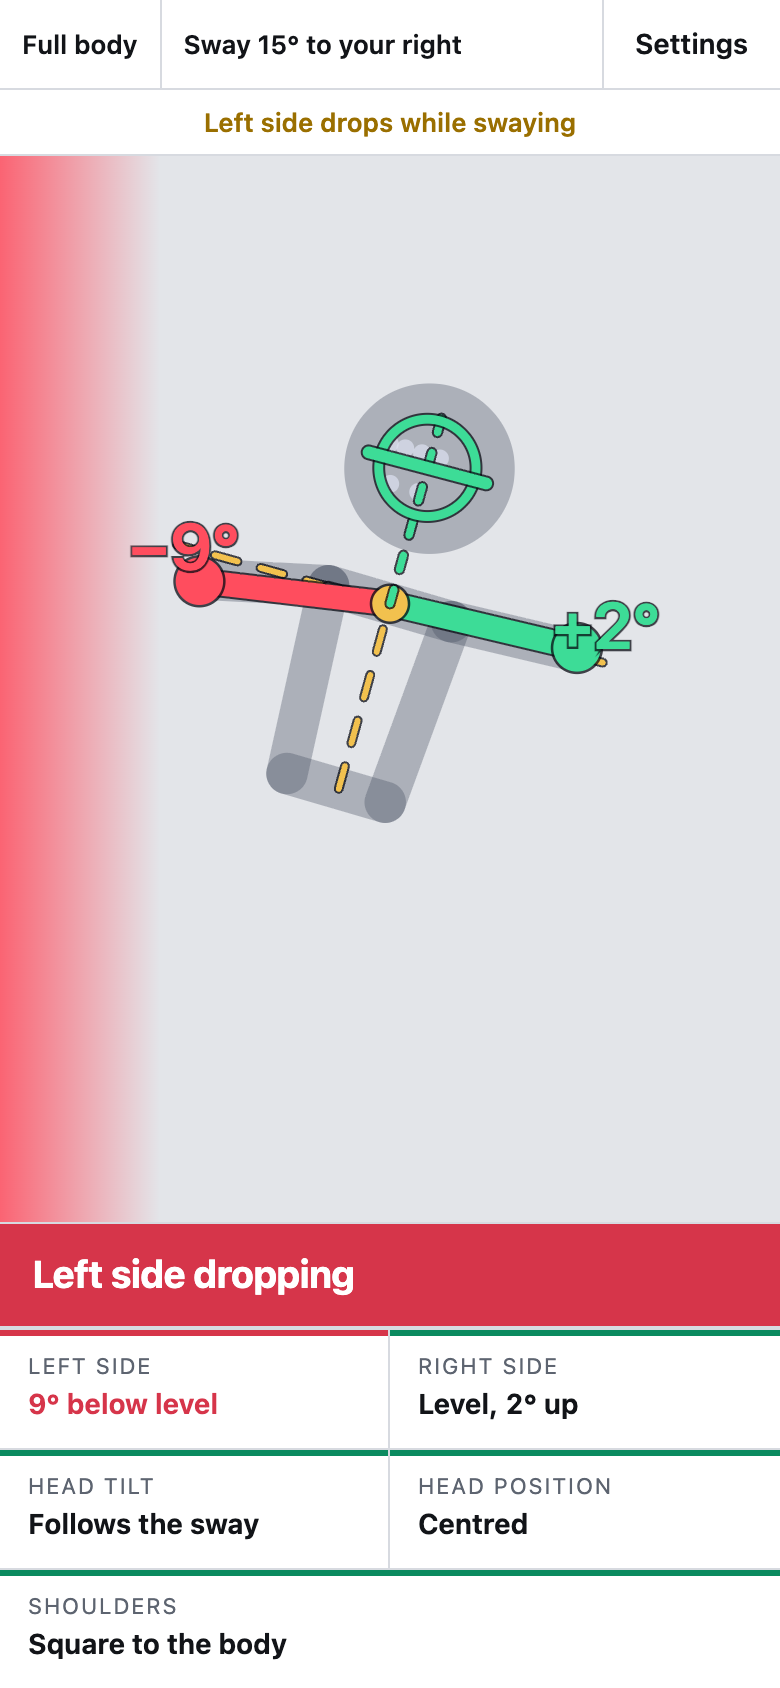
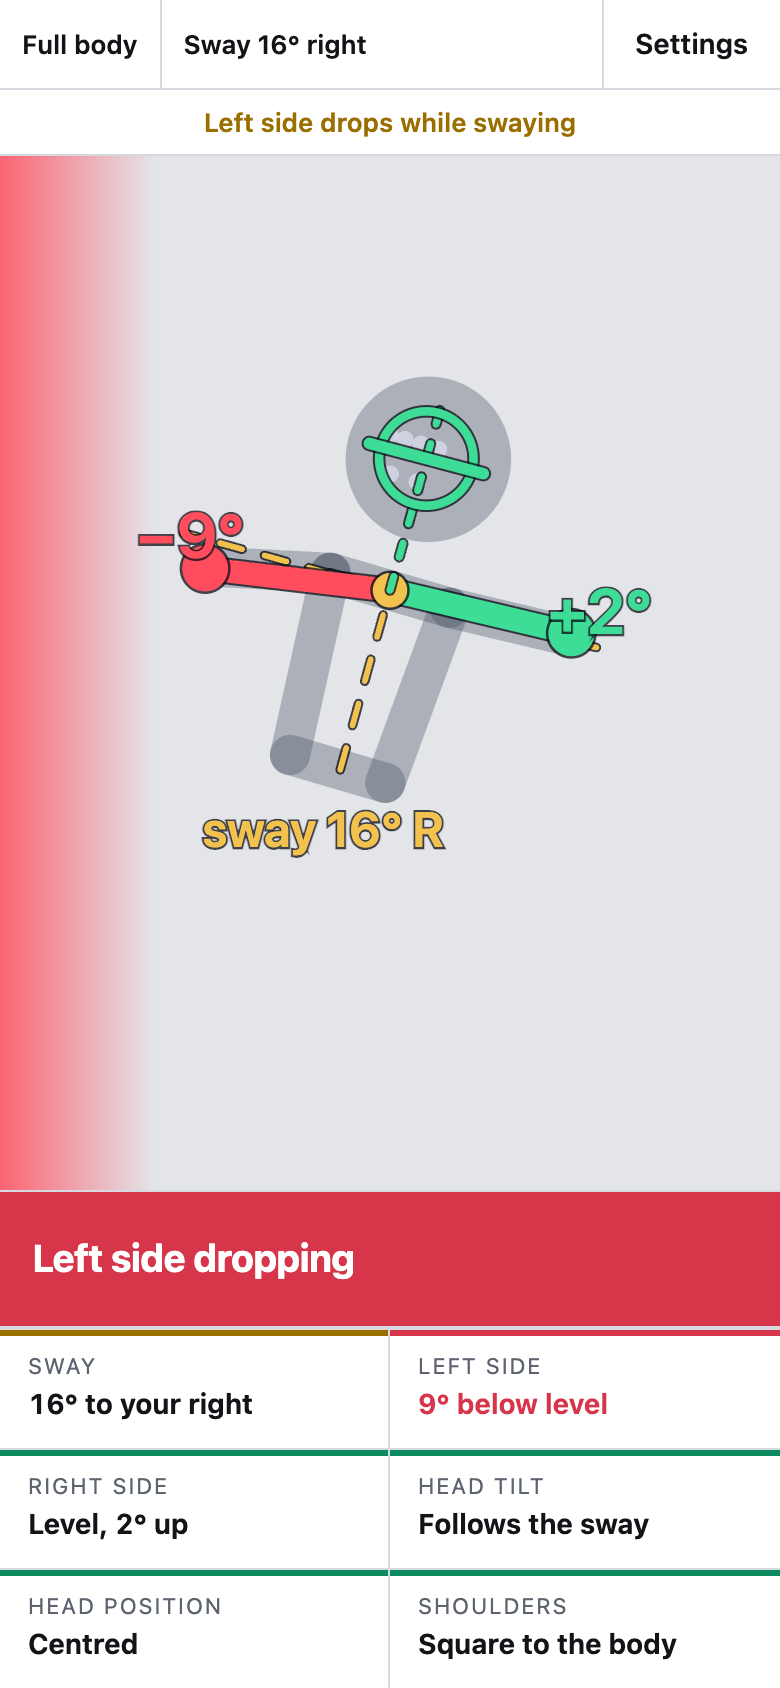
Sway readout everywhere; bottom panel keeps a fixed height
Sway (the body axis's lean from upright) is now always a number: in the top bar
("Sway 15° right", "Sway 0°" when upright), as the first Studio reading, and
as a gold label under the body axis on the overlay, never faded in Glance.

Fix: the bottom panel changed height when the message changed (Glance's
fault messages add a second line) or when tracking was lost (the readings
vanished), which resized the camera picture. The message band now has a fixed
height with room for two lines, reading values no longer wrap, and the
readings stay in place, greyed, while nobody is in view. Checked by sampling
the picture's height every 100 ms through the whole demo in both looks: one
value throughout. Guide picture re-shot.

Changed region(s): [[0.0, 0.6777, 1.0, 0.9858], [0.1538, 0.2156, 0.8615, 0.5237], [0.4, 0.0, 0.5846, 0.0308]]

diff --git a/app.css b/app.css
@@ -60,39 +60,45 @@ button:focus-visible, input:focus-visible, a:focus-visible { outline: 2px solid 
 
 /* ---- bottom panel: message band + readings grid ---- */
 .dock { grid-row: 3; background: var(--panel); border-top: 1px solid var(--line); padding-bottom: env(safe-area-inset-bottom, 0px); }
-.banner { display: grid; gap: 2px; padding: 12px max(16px, env(safe-area-inset-left, 0px)); border-bottom: 1px solid var(--line); box-shadow: inset 6px 0 0 var(--line); transition: background-color 120ms; }
-.banner .main { font-size: clamp(19px, 3.4vw, 30px); font-weight: 700; letter-spacing: -0.01em; text-wrap: balance; }
+.banner {
+  /* Fixed height (room for two lines) so a change of message never resizes the camera picture. */
+  --main: clamp(19px, 3.4vw, 30px);
+  height: calc(24px + 2.3 * var(--main)); overflow: hidden; align-content: center;
+  display: grid; gap: 2px; padding: 12px max(16px, env(safe-area-inset-left, 0px)); border-bottom: 1px solid var(--line); box-shadow: inset 6px 0 0 var(--line); transition: background-color 120ms;
+}
+.banner .main { font-size: var(--main); line-height: 1.15; font-weight: 700; letter-spacing: -0.01em; text-wrap: balance; display: -webkit-box; -webkit-box-orient: vertical; -webkit-line-clamp: 2; overflow: hidden; }
 .banner .sub { font-size: 14px; color: var(--dim); }
 .banner .sub:empty { display: none; }
 .banner.ok { background: var(--ok-soft); box-shadow: inset 6px 0 0 var(--ok); }
 .banner.ok .main { color: var(--ok); }
 .banner.fault { background: var(--fault); box-shadow: none; color: #fff; }
 .banner.fault .sub { color: rgba(255, 255, 255, 0.88); }
-.banner.idle .main { color: var(--dim); font-size: clamp(16px, 2.6vw, 22px); font-weight: 600; }
+.banner.idle .main { color: var(--dim); font-size: calc(var(--main) * 0.8); font-weight: 600; }
 
-.tiles { display: grid; grid-template-columns: repeat(5, minmax(0, 1fr)); }
+.tiles { display: grid; grid-template-columns: repeat(6, minmax(0, 1fr)); }
 .tiles:empty { display: none; }
 .tile { display: grid; gap: 2px; align-content: start; padding: 10px 14px 12px; min-width: 0; border-right: 1px solid var(--line); box-shadow: inset 0 3px 0 var(--line); }
 .tile:last-child { border-right: 0; }
 .tile .k { font-size: 11px; text-transform: uppercase; letter-spacing: 0.08em; color: var(--dim); }
-.tile .v { font-size: clamp(14px, 1.7vw, 17px); font-weight: 650; font-variant-numeric: tabular-nums; overflow-wrap: anywhere; }
+.tile .v { font-size: clamp(14px, 1.7vw, 17px); font-weight: 650; font-variant-numeric: tabular-nums; white-space: nowrap; overflow: hidden; text-overflow: ellipsis; }
 .tile .s { display: none; }
 .tile.ok { box-shadow: inset 0 3px 0 var(--ok); }
 .tile.fault { box-shadow: inset 0 3px 0 var(--fault); }
+.tile.info { box-shadow: inset 0 3px 0 var(--guide); }
 .tile.fault .v { color: var(--fault); }
 .tile.idle .v { color: var(--dim); font-weight: 500; }
 @media (max-width: 720px) {
   .tiles { grid-template-columns: repeat(2, minmax(0, 1fr)); }
   .tile { border-top: 1px solid var(--line); }
   .tile:nth-child(2n) { border-right: 0; }
-  .tile[data-id="shoulders"] { grid-column: span 2; border-right: 0; }
 }
 @media (max-width: 560px) { #fps { display: none; } .cell { padding: 0 11px; font-size: 13px; } [data-look="glance"] .tile .s { font-size: 12px; } }
 
 /* ---- Glance look: one large instruction, a compact status row ---- */
-[data-look="glance"] .banner { padding-block: 16px 18px; }
-[data-look="glance"] .banner .main { font-size: clamp(28px, 7.5vw, 56px); font-weight: 800; letter-spacing: -0.02em; line-height: 1.05; }
-[data-look="glance"] .banner .sub { font-size: clamp(14px, 2.4vw, 19px); }
+[data-look="glance"] .banner { --main: clamp(28px, 7.5vw, 56px); --subf: clamp(14px, 2.4vw, 19px); padding-block: 16px 18px; height: calc(36px + 2.1 * var(--main) + 1.4 * var(--subf)); }
+[data-look="glance"] .banner .main { font-weight: 800; letter-spacing: -0.02em; line-height: 1.05; }
+[data-look="glance"] .banner .sub { font-size: var(--subf); line-height: 1.4; }
+[data-look="glance"] .tile[data-id="sway"] { display: none; }
 [data-look="glance"] .tiles { grid-template-columns: repeat(5, minmax(0, 1fr)); }
 [data-look="glance"] .tile, [data-look="glance"] .tile.ok, [data-look="glance"] .tile.fault { border-top: 0; grid-column: auto; border-right: 1px solid var(--line); padding: 12px 6px 12px; justify-items: center; box-shadow: none; }
 [data-look="glance"] .tile:last-child { border-right: 0; }

diff --git a/src/feedback.js b/src/feedback.js
@@ -4,7 +4,7 @@ const deg = (d) => `${Math.abs(d).toFixed(0)}°`;
 const side = (dir) => (dir === 'left' ? 'left' : 'right');
 
 const OFF = (id, label) => ({ id, label, value: 'Turned off', tone: 'idle' });
-const SHORT = { left: 'Left', right: 'Right', headTilt: 'Tilt', headPos: 'Head', shoulders: 'Shoulders' };
+const SHORT = { sway: 'Sway', left: 'Left', right: 'Right', headTilt: 'Tilt', headPos: 'Head', shoulders: 'Shoulders' };
 
 function sideTile(id, name, s) {
   if (s.state === 'off') return OFF(id, name);
@@ -17,13 +17,17 @@ export function feedback(v) {
   if (!v?.tracked) {
     return {
       banner: { text: 'Step into view so both shoulders and elbows are visible', tone: 'idle', instruction: 'Step into view', detail: 'Both shoulders and elbows need to be in the picture' },
-      tiles: [],
+      // Same cells as when tracking, so the panel keeps its height and the picture does not jump.
+      tiles: [['sway', 'Sway'], ['left', 'Left side'], ['right', 'Right side'], ['headTilt', 'Head tilt'], ['headPos', 'Head position'], ['shoulders', 'Shoulders']]
+        .map(([id, label]) => ({ id, label, value: 'Not visible', tone: 'idle', short: SHORT[id] })),
       sway: '',
       mode: '',
     };
   }
   const h = v.head;
+  const swayDeg = Math.round(Math.abs(v.sway));
   const tiles = [
+    { id: 'sway', label: 'Sway', value: swayDeg === 0 ? '0°, upright' : `${swayDeg}° to your ${v.sway > 0 ? 'right' : 'left'}`, tone: 'info' },
     sideTile('left', 'Left side', v.left),
     sideTile('right', 'Right side', v.right),
     h.tilt === 'off' ? OFF('headTilt', 'Head tilt') : h.tilt === 'untracked'
@@ -72,6 +76,6 @@ export function feedback(v) {
   if (text !== clear) tone = 'fault';
   for (const t of tiles) t.short = SHORT[t.id];
 
-  const sway = Math.abs(v.sway) < 2 ? 'Upright' : `Sway ${deg(v.sway)} to your ${v.sway > 0 ? 'right' : 'left'}`;
+  const sway = swayDeg === 0 ? 'Sway 0°' : `Sway ${swayDeg}° ${v.sway > 0 ? 'right' : 'left'}`;
   return { banner: { text, tone, instruction, detail }, tiles, sway, mode: v.mode === 'full' ? 'Full body' : 'Torso only' };
 }

diff --git a/test/feedback.test.js b/test/feedback.test.js
@@ -39,8 +39,13 @@ test('head messages use the dancer\'s own left and right', () => {
 });
 
 test('sway reads in plain words', () => {
-  assert.equal(feedback(v({ sway: 12.4 })).sway, 'Sway 12° to your right');
-  assert.equal(feedback(v({ sway: -0.8 })).sway, 'Upright');
+  assert.equal(feedback(v({ sway: 12.4 })).sway, 'Sway 12° right');
+  assert.equal(feedback(v({ sway: -1.2 })).sway, 'Sway 1° left');
+  assert.equal(feedback(v({ sway: 0.3 })).sway, 'Sway 0°');
+  const tile = (s) => feedback(v({ sway: s })).tiles.find((x) => x.id === 'sway');
+  assert.equal(tile(-17.6).value, '18° to your left');
+  assert.equal(tile(0.2).value, '0°, upright');
+  assert.equal(tile(5).tone, 'info');
 });
 
 test('torso mode explains the shoulder reference instead of judging it', () => {
@@ -53,6 +58,9 @@ test('nobody in view asks the dancer to step in', () => {
   const f = feedback({ tracked: false });
   assert.equal(f.banner.tone, 'idle');
   assert.match(f.banner.text, /shoulders and elbows/);
+  // The readings stay in place (greyed) so the bottom panel does not change height.
+  assert.deepEqual(f.tiles.map((x) => x.id), feedback(v()).tiles.map((x) => x.id));
+  assert.ok(f.tiles.every((x) => x.tone === 'idle'));
 });
 
 test('switched-off checks read "Turned off" and never reach the banner', () => {
@@ -76,5 +84,5 @@ test('each finding comes with an instruction for the Glance look', () => {
     assert.equal(b.instruction, instruction);
     assert.equal(b.detail, detail);
   }
-  assert.deepEqual(feedback(v()).tiles.map((t) => t.short), ['Left', 'Right', 'Tilt', 'Head', 'Shoulders']);
+  assert.deepEqual(feedback(v()).tiles.map((t) => t.short), ['Sway', 'Left', 'Right', 'Tilt', 'Head', 'Shoulders']);
 });

diff --git a/guide.html b/guide.html
@@ -124,7 +124,7 @@ footer { color: var(--dim); font-size: 14px; margin-top: 36px; border-top: 1px s
   </figure>
   <ul class="legend">
     <li><svg viewBox="0 0 64 36" aria-hidden="true"><line x1="4" y1="18" x2="60" y2="18" stroke="#f2c14e" stroke-width="3" stroke-dasharray="7 6" stroke-linecap="round"/></svg>
-      <span><strong>Gold dashed line through your shoulders:</strong> your level line. It tilts with your sway. Each arm line should sit on it or above it. In full-body view a second gold dashed line runs down to your hips; that is your body axis.</span></li>
+      <span><strong>Gold dashed line through your shoulders:</strong> your level line. It tilts with your sway. Each arm line should sit on it or above it. In full-body view a second gold dashed line runs down to your hips; that is your body axis. The gold number under it is your sway: how far that axis leans from upright, in degrees, R or L for your right or left. The same number is in the top bar and, in the Studio look, the first reading.</span></li>
     <li><svg viewBox="0 0 64 36" aria-hidden="true"><line x1="6" y1="20" x2="58" y2="14" stroke="#3ddc97" stroke-width="7" stroke-linecap="round"/><circle cx="58" cy="14" r="5" fill="#3ddc97"/></svg>
       <span><strong>Green arm line:</strong> from the middle of your shoulders to that elbow, at or above level. The number shows how far above (+) or below (−) level it sits, in degrees.</span></li>
     <li><svg viewBox="0 0 64 36" aria-hidden="true"><line x1="6" y1="12" x2="58" y2="26" stroke="#ff4d5e" stroke-width="7" stroke-linecap="round"/><circle cx="58" cy="26" r="5" fill="#ff4d5e"/></svg>

diff --git a/src/overlay.js b/src/overlay.js
@@ -92,6 +92,14 @@ export function drawOverlay(ctx, { rect, aspect, mirror, verdict, dpr = 1, quiet
   // above S) and the sway-adjusted horizontal through S.
   calm('ok');
   if (m.mode === 'full') line(ctx, map(mid(P.LH, P.RH)), map(S), COLORS.guide, 2 * k, [8 * k, 8 * k]);
+  // Sway readout just below the body axis (below the hips, or below the shoulders in torso view).
+  {
+    const base = m.mode === 'full' ? mid(P.LH, P.RH) : add(S, scale(F.u, -len(sub(P.LS, P.RS)) * 0.9));
+    const sw = Math.round(Math.abs(m.sway));
+    ctx.globalAlpha = 1; // a readout, not a guide: never faded
+    label(ctx, map(add(base, scale(F.u, -reach * 0.34))), sw === 0 ? 'sway 0°' : `sway ${sw}° ${m.sway > 0 ? 'R' : 'L'}`, COLORS.guide, 17 * k);
+    calm('ok');
+  }
   line(ctx, map(add(S, scale(F.hL, -reach * 1.15))), map(add(S, scale(F.hL, reach * 1.15))), COLORS.guide, 2 * k, [8 * k, 8 * k]);
 
   // Shoulder line (the reference itself in torso mode).
